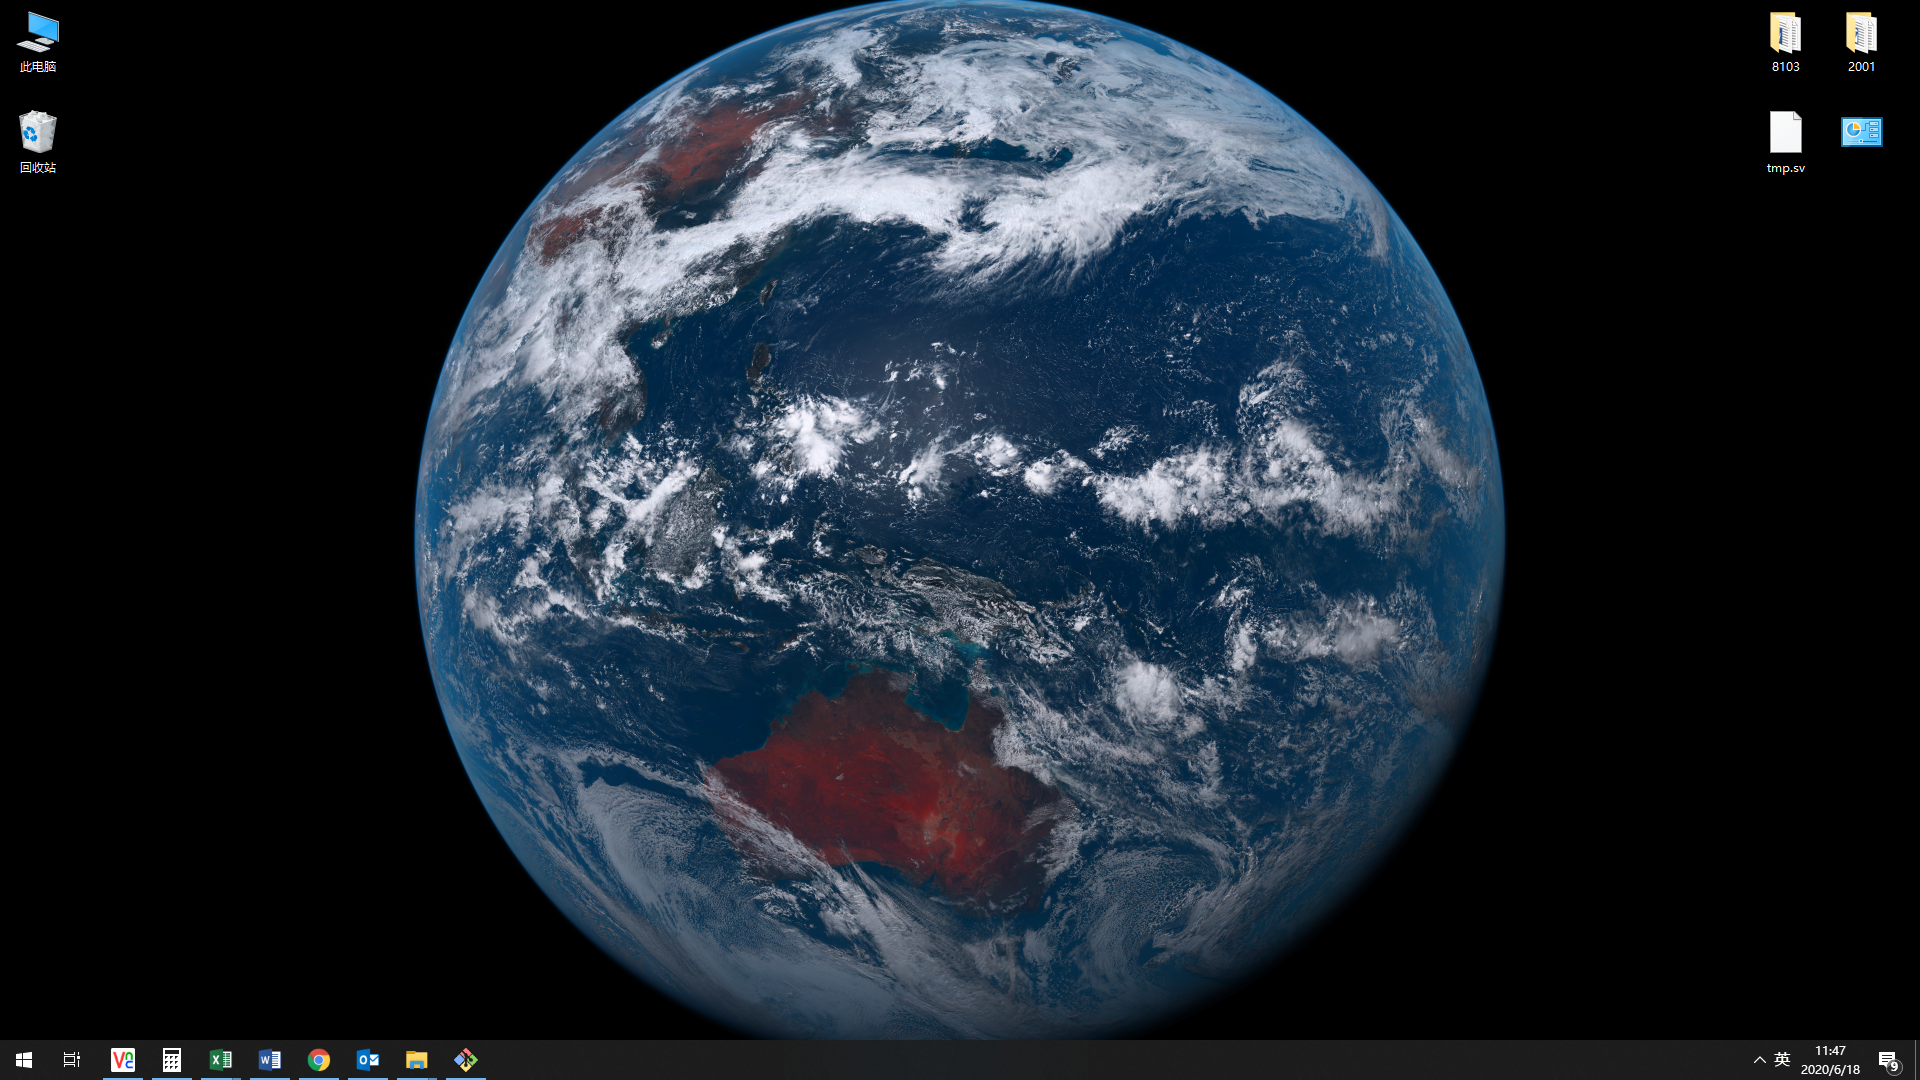
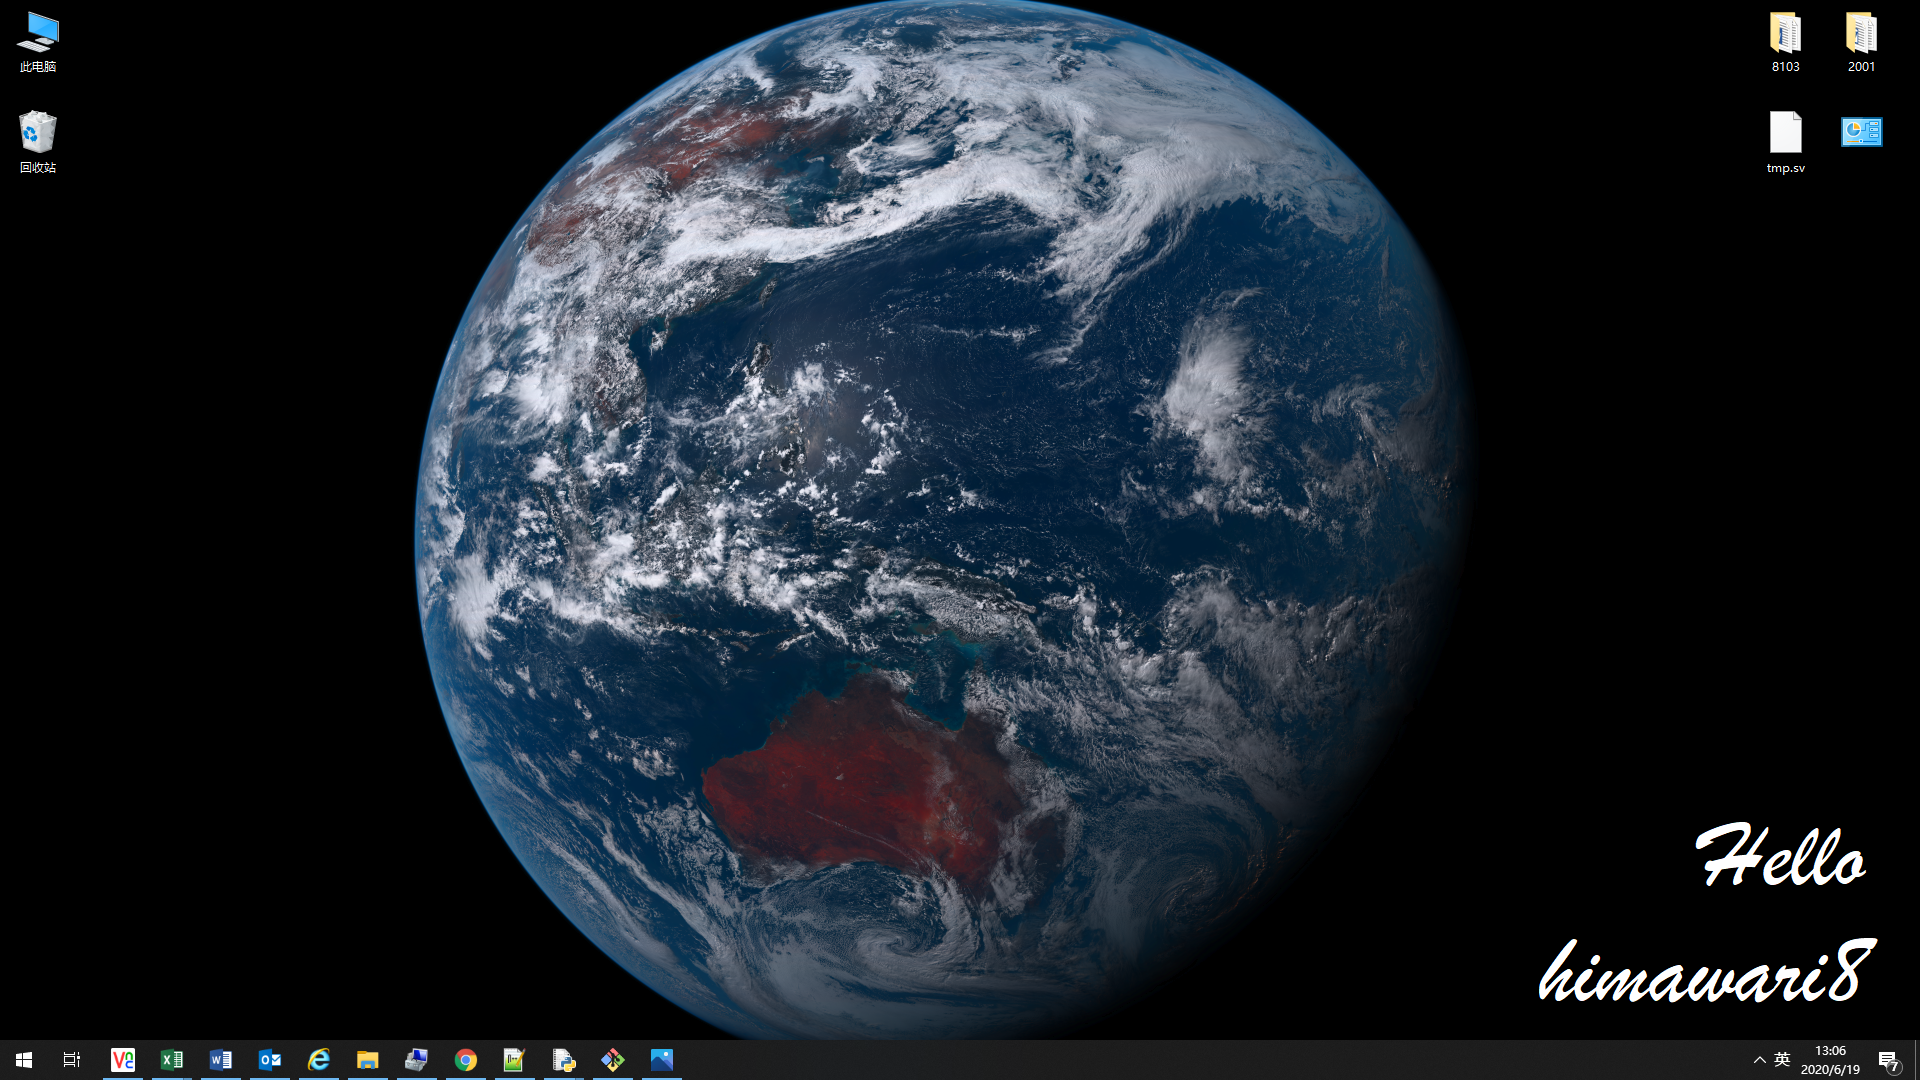
add RGBA

diff --git a/NICT_Download.py b/NICT_Download.py
@@ -24,19 +24,23 @@ def download_img(url, img_save_path):
 		print(img_save_path + "图片下载成功")
 
 
-def fill_img(img_1,img_2,img_3,img_4, img_save_path):
+def fill_img(img_0,img_1,img_2,img_3, img_save_path):
 	width, height = 1920, 1080      # 电脑屏幕大小
 	#new_img = Image.new(img_1.mode, (width, height), color='black')
 	new_img = Image.open("D:/himawari8_background-master/images/background.png")
-	#new_img = new_img.convert("RGBA")
-	img_1=img_1.crop((0,10,550,550))
-	img_2=img_2.crop((0,0 ,550,540))
-	img_3=img_3.crop((0,10,550,550))
-	img_4=img_4.crop((0,0 ,550,540))
-	new_img.paste(img_1, (410, 0))
-	new_img.paste(img_2, (410, 540))
-	new_img.paste(img_3, (960, 0))
-	new_img.paste(img_4, (960, 540))
+	new_img = new_img.convert("RGBA")
+	img_0=img_0.crop((0,10,550,550))
+	img_1=img_1.crop((0,0 ,550,540))
+	img_2=img_2.crop((0,10,550,550))
+	img_3=img_3.crop((0,0 ,550,540))
+	r,g,b,a = img_0.split()
+	new_img.paste(img_0, (410,  0),mask = a)
+	r,g,b,a = img_1.split()
+	new_img.paste(img_1, (410,540),mask = a)
+	r,g,b,a = img_2.split()
+	new_img.paste(img_2, (960,  0),mask = a)
+	r,g,b,a = img_3.split()
+	new_img.paste(img_3, (960,540),mask = a)
 	new_img.save(img_save_path)
 	print(img_save_path + "图片合成成功")
 
@@ -55,8 +59,6 @@ def dl_main():
 	
 	# 整合为链接 格式为：http://himawari8-dl.nict.go.jp/himawari8/img/D531106/1d/550/2018/09/25/065000_0_0.png
 	
-	img=[[[0 for i in range(550)] for i in range(550) ] for i in range(4)]
-	
 	i=0
 	for row in range(2):
 		for col in range(2):
@@ -67,25 +69,36 @@ def dl_main():
 			# 下载图片
 			download_img(img_url, img_save_path)
 			# 合成图片
-			img[i] = Image.open(img_save_path)
 						
-			#img = img[i].convert("RGBA")
-			#datas = img.getdata()
-			#newData = list()
-			#for item in datas:
-			#	if item[0]==0 and item[1]==0 and item[2]==0:
-			#		newData.append(( 255, 255, 255, 0))
-			#	else:
-			#		newData.append(item)
-			#img.putdata(newData)
-			#img[i] = img
+			img = Image.open(img_save_path)
+			#print(img.mode)
+			img = img.convert("RGBA")
+			datas = img.getdata()
+			newData = list()
+			for item in datas:
+				if item[0]<5 and item[1]<5  and item[2]<5 :
+					newData.append(( 0, 0, 0, 0))
+				else:
+					newData.append(item)
+			img.putdata(newData)
+			#img.save(img_save_path)
+			#img = Image.open(img_save_path)
+			#print(img.mode)
+			if i==0:
+				img_0 = img
+			elif i==1:
+				img_1 = img
+			elif i==2:
+				img_2 = img
+			elif i==3:
+				img_3 = img
 			
 			i=i+1
 	
 
 	new_img_save_path = "D:/himawari8_background-master/Wallpaper/" + delat_utc_today.replace("/", "_")+".png"
 	#print(new_img_save_path)
-	fill_img(img[0],img[1],img[2],img[3], new_img_save_path)
+	fill_img(img_0,img_1,img_2,img_3, new_img_save_path)
 	return new_img_save_path
 
 
